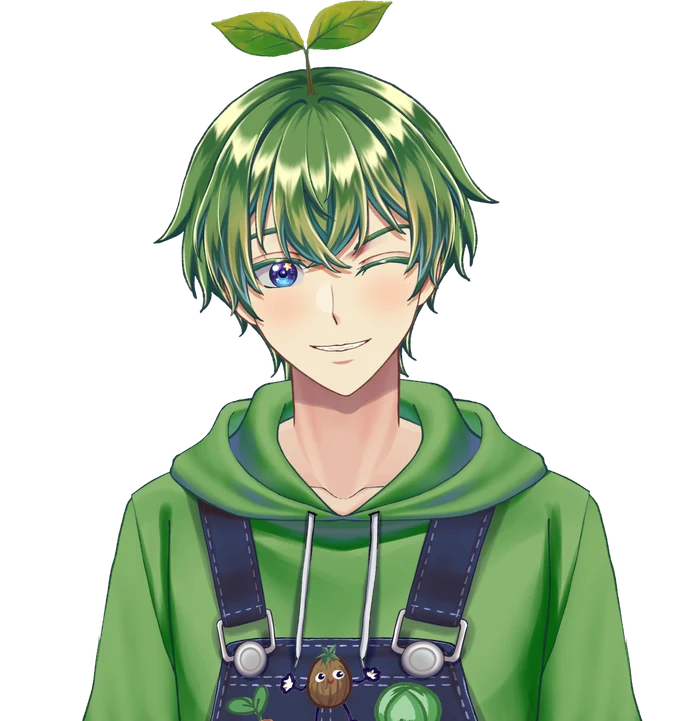
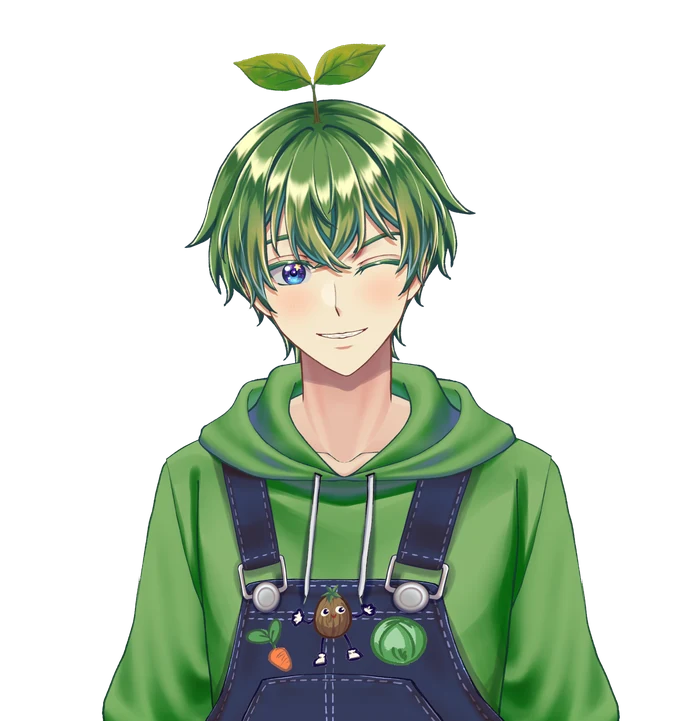
StagflationTV close-ups: zoom out so the sprout isn't cut
Claude-Session: https://claude.ai/code/session_0182ETGqkY6VZC2ACV9rE9Mb

diff --git a/index.html b/index.html
@@ -1007,7 +1007,7 @@ var TYPES = { All:['ทั้งหมด','All'], VTuber:['VTuber','VTuber'], K
 var TALENTS = [
   { id:'hanami', name:'Hanami Lay', short:'Hanami Lay', ini:'HL', type:'VTuber', aff:'indie', langs:['th'], color:'#FFFFFF', img:'talent-hanami.jpg', face:'talent-hanami-face.jpg?v=13', card:'talent-hanami-half.jpg', halves:['talent-hanami-half.jpg'], tags:['#Gaming','#Karaoke','#Drawing','#Chitchat','#Cooking','#HandCam'], works:['promo','review','dub','collab'], links:[['YouTube',70200,'https://www.youtube.com/@HanamiLayCH'],['TikTok',89800,'https://www.tiktok.com/@hanamilay'],['Facebook',29000,'https://www.facebook.com/profile.php?id=61552160366840'],['X',5931,'https://x.com/HanamiLay']], quote:['วีทูปเบอร์ที่สามารถไลฟ์เล่นเกมได้ 24 ชั่วโมงแบบไม่ยอมแพ้ พร้อมอยู่กับคุณตั้งแต่ตอนบอกฝันดีจนตื่นมาอรุณสวัสดิ์','A VTuber who can stream games for 24 hours straight without giving up, here with you from good night all the way to good morning.'] },
   { id:'justpark', name:['Justpark Channel (จีน)','Justpark Channel (Jeen)'], short:'Justpark', ini:'JP', type:'KOL', aff:{name:'GaconX', logo:'logos/gaconx-mark.png'}, langs:['th'], color:'#FFFFFF', img:'talent-justpark.jpg', face:'talent-justpark-face.jpg?v=12', tags:['#Gaming'], works:['review'], links:[['YouTube',591000,'https://www.youtube.com/@justparkchannel1419'],['TikTok',13600,'https://www.tiktok.com/@justparkchannel'],['Facebook',34000,'https://www.facebook.com/JeenJustpark'],['Instagram',314,'https://www.instagram.com/justpark_channel/']], quote:['ช่องรีวิวเกมที่ลงคลิปทุกวัน...... ที่ทำเสร็จ','A game review channel with a new clip every day...... that gets finished.'] },
-  { id:'stagflation', img:'talent-stag-1.webp', face:'talent-stag-face.webp', forms:['talent-stag-1.webp','talent-stag-2.webp','talent-stag-3.webp'], halves:['talent-stag-1-half.webp','talent-stag-2-half.webp','talent-stag-3-half.webp'], formNames:[['ยิ้ม','Smile'],['ขยิบตา','Wink'],['นิ่ง','Calm']], card:'talent-stag-1-half.webp', name:'StagflationTV', short:'StagflationTV', alias:'stagflation stag', ini:'ST', type:'VTuber', aff:{name:'GaconX', logo:'logos/gaconx-mark.png'}, langs:['th','en'], color:'#E3F1DC', tags:['#Gaming','#Farming','#Simulator'], works:['promo','dub','prodreview'], links:[['YouTube',195000,'https://www.youtube.com/@STAGFLATIONTH'],['TikTok',50700,'https://www.tiktok.com/@stagflationtv'],['Twitch',4600,'https://www.twitch.tv/stagflationtv/'],['Facebook',14000,'https://www.facebook.com/StagflationTV'],['Instagram',2205,'https://www.instagram.com/stagflationtv/']], quote:['ยูทูบเบอร์และสตรีมเมอร์ ฝากให้ความรักและรดน้ำกันด้วยนะ (?)','A YouTuber & streamer. Please give love and water (?)'] },
+  { id:'stagflation', img:'talent-stag-1.webp', face:'talent-stag-face.webp', forms:['talent-stag-1.webp','talent-stag-2.webp','talent-stag-3.webp'], halves:['talent-stag-1-half.webp?v=2','talent-stag-2-half.webp?v=2','talent-stag-3-half.webp?v=2'], formNames:[['ยิ้ม','Smile'],['ขยิบตา','Wink'],['นิ่ง','Calm']], card:'talent-stag-1-half.webp?v=2', name:'StagflationTV', short:'StagflationTV', alias:'stagflation stag', ini:'ST', type:'VTuber', aff:{name:'GaconX', logo:'logos/gaconx-mark.png'}, langs:['th','en'], color:'#E3F1DC', tags:['#Gaming','#Farming','#Simulator'], works:['promo','dub','prodreview'], links:[['YouTube',195000,'https://www.youtube.com/@STAGFLATIONTH'],['TikTok',50700,'https://www.tiktok.com/@stagflationtv'],['Twitch',4600,'https://www.twitch.tv/stagflationtv/'],['Facebook',14000,'https://www.facebook.com/StagflationTV'],['Instagram',2205,'https://www.instagram.com/stagflationtv/']], quote:['ยูทูบเบอร์และสตรีมเมอร์ ฝากให้ความรักและรดน้ำกันด้วยนะ (?)','A YouTuber & streamer. Please give love and water (?)'] },
   { id:'pekorin', img:'talent-pekorin.webp', face:'talent-pekorin-face.webp?v=12', halves:['talent-pekorin-half.webp'], card:'talent-pekorin-half.webp', name:'PekorinSSR', short:'Pekorin', ini:'PK', type:'VTuber', aff:'indie', langs:['th'], color:'#F3E9FB', tags:['#Gaming','#Cosplay','#Review','#IRL','#JustChatting'], works:['review','promo','dub','collab','cover','tiein'], links:[['YouTube',22800,'https://www.youtube.com/@pekorin_ssr'],['TikTok',60000,'https://www.tiktok.com/@pekorinssr'],['Facebook',40200,'https://www.facebook.com/PekorinSSR']], quote:['VTuber เสียงแจ๋ว ป่วน เกรียน แต่ก็น่ารัก พูดเก่ง รีวิวได้ หัวไว รักงาน รักเงิน รักทุกคน','A VTuber with a bright voice: chaotic, cheeky and still adorable. A great talker who can review, thinks fast, and loves work, money and everyone.'] },
   { id:'era', img:'talent-era.webp', face:'talent-era-face.webp?v=13', halves:['talent-era-half.webp'], card:'talent-era-half.webp', name:'Era', short:'Era', ini:'ER', type:'VTuber', aff:{name:'Algorhythm Project', logo:'logos/algorhythm.png'}, langs:['th','en','jp'], color:'#E6F4E4', tags:['#Talking','#Horror'], works:['promo','review','dub','collab','cover'], note:['รีวิวได้ทุกประเภท · ไม่รับงานแนวล่อแหลม','Reviews any category · No suggestive content'], links:[['YouTube',23400,'https://www.youtube.com/@Era_ARP'],['TikTok',10500,'https://www.tiktok.com/@era_arp'],['Instagram',6200,'https://www.instagram.com/era.the.first/'],['X',12000,'https://x.com/Era_ARP']], quote:['VTuber สายสดใส คุยเก่งเป็นที่หนึ่ง เมาท์ได้ตั้งแต่สากกะเบือยันเรือรบแบบ nonstop! ร้องเพลงก็ได้ รีวิวก็เก่ง ไอเดียก็มี พร้อมเสิร์ฟความสนุกและรอยยิ้มในทุกงานและทุกคนแล้วค่ะ!','A bright, bubbly VTuber and a champion talker who can chat about anything under the sun, nonstop! She sings, reviews like a pro and is full of ideas, ready to bring fun and smiles to every project and everyone!'] },
   { id:'kotoriyo', img:'talent-kotoriyo-sit.webp', face:'talent-kotoriyo-face.webp?v=12', forms:['talent-kotoriyo-sit.webp','talent-kotoriyo.webp','talent-kotoriyo-chibi1.webp','talent-kotoriyo-chibi2.webp'], halves:['talent-kotoriyo-half.webp?v=4','talent-kotoriyo-half2.webp?v=3','talent-kotoriyo-chibi1.webp','talent-kotoriyo-chibi2.webp'], flat:[false,false,true,true], formNames:[['ร่าง 1','Look 1'],['ร่าง 2','Look 2'],['Chibi 1','Chibi 1'],['Chibi 2','Chibi 2']], card:'talent-kotoriyo-half.webp?v=4', name:'KotoRiyo', short:'KotoRiyo', ini:'KR', type:'VTuber', aff:'indie', langs:['th'], color:'#FBE8EE', tags:['#Singing','#FreeTalk'], works:['promo','dub','collab','cover'], links:[['YouTube',8467,'https://www.youtube.com/@kotoriyo.official'],['TikTok',5023,'https://www.tiktok.com/@kotoriyo_'],['Facebook',2800,'https://www.facebook.com/profile.php?id=61578431919963'],['Instagram',1500,'https://www.instagram.com/kotoriyo.official/'],['X',2375,'https://x.com/kotoriyo_']], quote:['สาวน้อยที่ตลกไม่พัก แต่ความน่ารักให้เป็นที่ 1 (･ω･) 🩷','A girl who never stops being funny, but cuteness always comes first (･ω･) 🩷'] },
